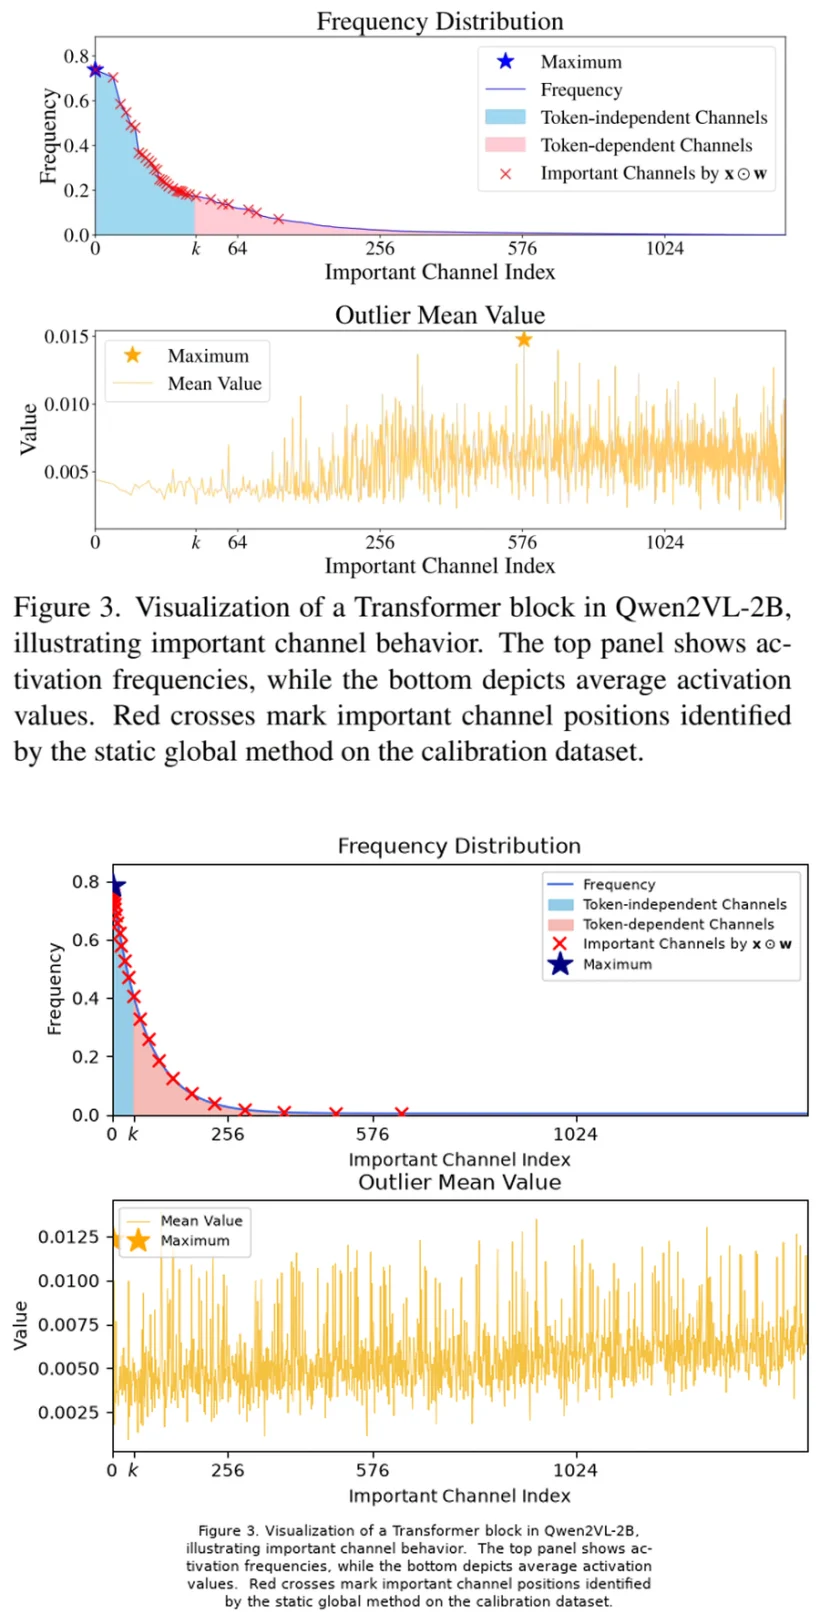
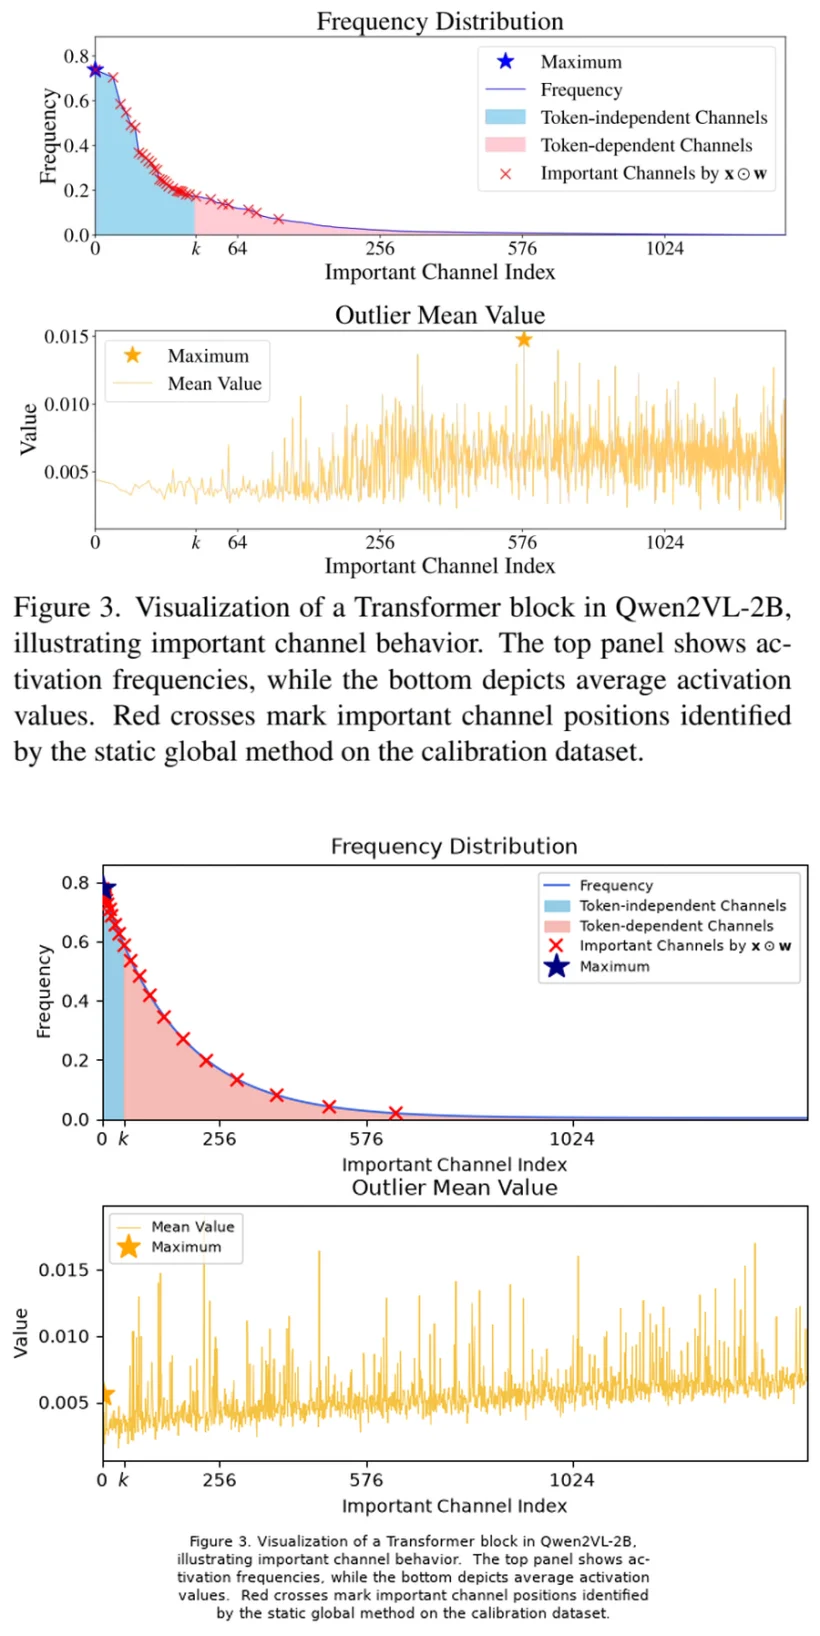
improve(replicas): 第六轮 —— 10 频率曲线对齐
- tau 72 → 165，衰减斜率与原图一致（64 处 0.25、256 处 0.07）
- 下图改为「上升基线 + 伽马尖峰」，还原原图的缓慢上扬与离散尖峰
- 去掉与 k 重叠的 64 刻度
- 10 张图 AR 全部收敛到 ±4% 内

diff --git a/tools/figlab/replicas.py b/tools/figlab/replicas.py
@@ -604,8 +604,8 @@ def fig10():
     idx = np.arange(n)
 
     # (上) 频率分布：指数衰减 + 双色阴影 + 红叉 + 蓝星
-    tau = 72.0
-    freq = 0.78 * np.exp(-idx / tau) + 0.004
+    tau = 165.0
+    freq = 0.78 * np.exp(-idx / tau) + 0.0035
     ax = axes[0]
     k = 48
     ax.plot(idx, freq, color="royalblue", lw=1.2, label="Frequency")
@@ -628,9 +628,11 @@ def fig10():
     ax.set_title("Frequency Distribution", fontsize=12)
 
     # (下) 异常值均值：尖峰折线 + 橙星
-    val = 0.004 + 0.0022 * (idx / n) + rng.normal(0, 0.0011, n)
-    spikes = rng.random(n) < 0.09
-    val[spikes] += rng.uniform(0.002, 0.007, spikes.sum())
+    # 基线缓慢上升 + 伽马分布尖峰（原图就是这个形态）
+    base = 0.0030 + 0.0035 * (idx / n) ** 0.7
+    val = base + rng.normal(0, 0.0006, n)
+    spikes = rng.random(n) < 0.13
+    val[spikes] += rng.gamma(2.0, 0.0016, spikes.sum())
     val = np.clip(val, 0, None)
     ax = axes[1]
     ax.plot(idx, val, color="#F5C242", lw=0.55, label="Mean Value")
